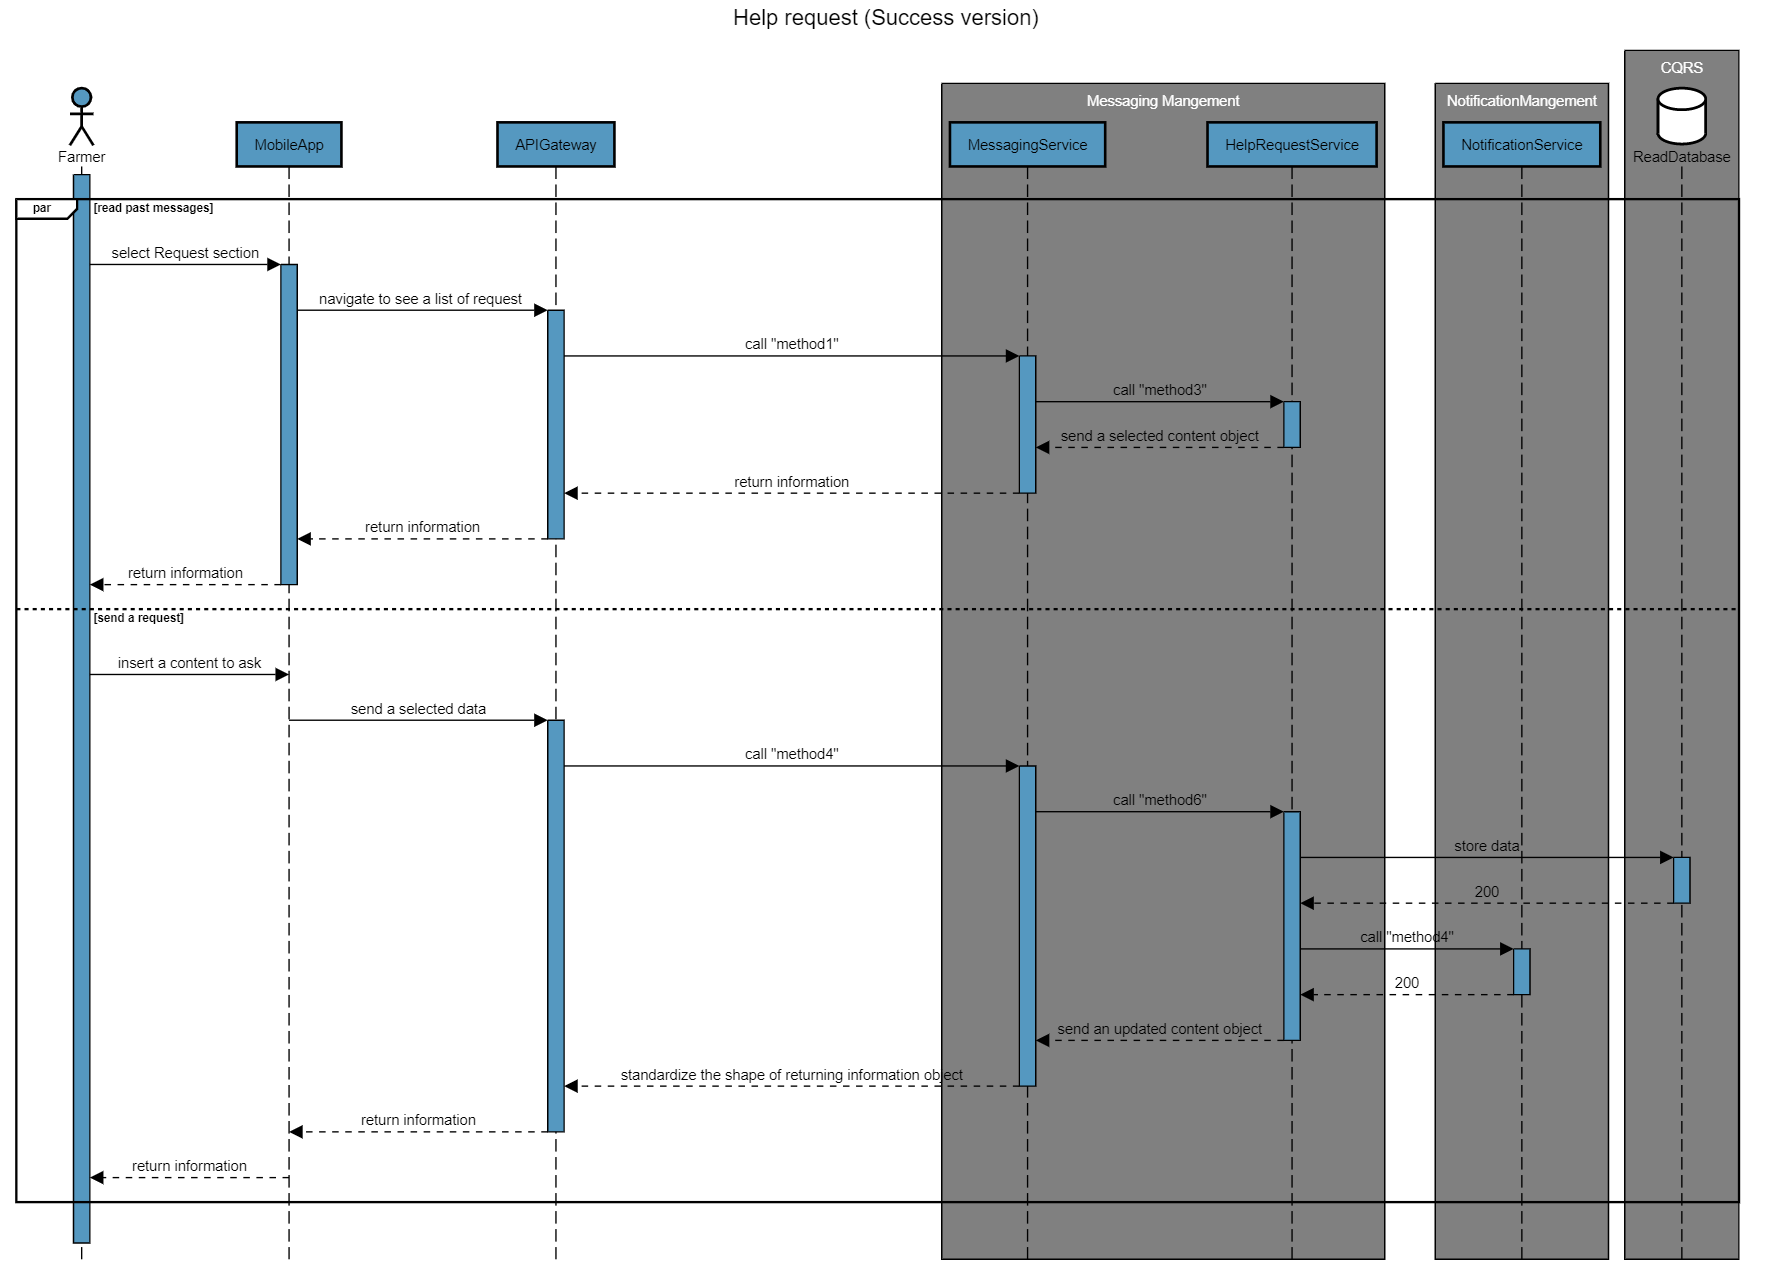
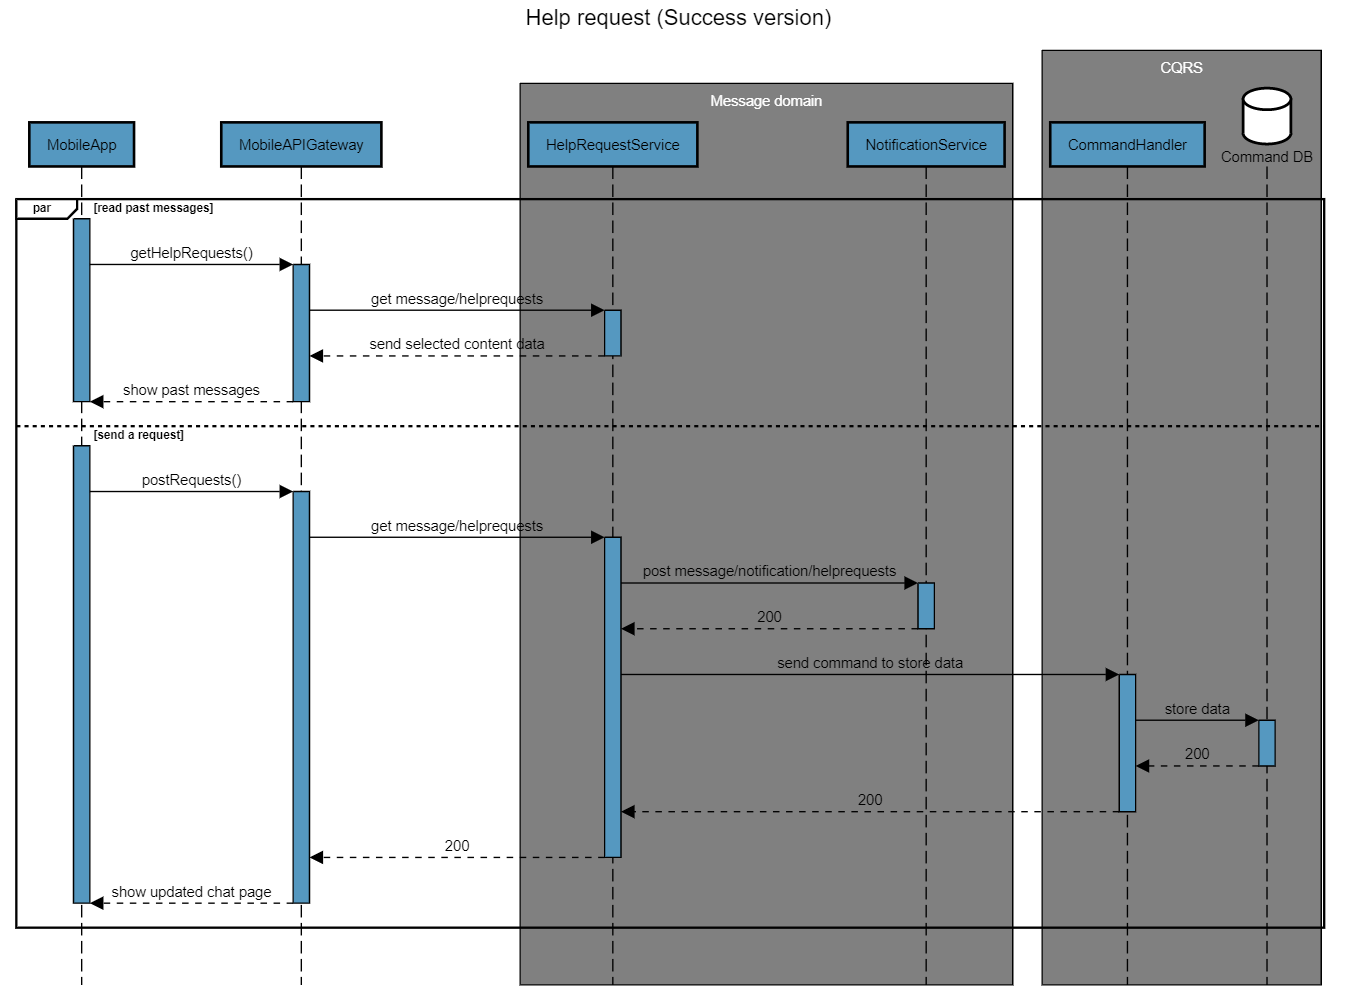
add description of sequence diagram, links, refine images

diff --git a/DD/Files/2.Architectural design/runtime_view.tex b/DD/Files/2.Architectural design/runtime_view.tex
@@ -1,42 +1,109 @@
 % ############### 2.4) RUNTIME VIEW ####################
 
-sequence diagrams, interactions description \ldots
+For letting diagram simpler, we supposed that all the example below are operations of success version (without considering any exceptions, every actor inserts the data correctly and satisfies their authorization requirements).
+\newline
+Additionally we also note that API gateway does a communication with authorization server to generate a token to let users execute only the ones they have permission to do. 
 
-Possibly not necessary "Account service"?
+
 \begin{figure}[H]
 	\centering
     \includegraphics[width=\textwidth]{Images/sequence-diagram/sign-up.png}
 	\caption{\label{fig:se_sign_up}Sign Up}
 \end{figure}
+Actor: All type of user
+\newline
+UI flow: {\ref{sec:user_mobile_interface} Sign Up, Login}
 
-Possibly not necessary "Policy maker service"?
+Firstly this diagram explains the flow of sign up for all type of user. 
+Due to CQRS pattern, there are two different database according to their purpose (\ref{sec:component_view}). 
+\newline
+\textsc{\textcolor{blue}{flow overview}}
+
+Mobile App sends a method ”postUser()” to Mobile Api Gateway, then service discovery does a job to find a routing path by URL of REST api.
+Then SignUpService receives post request, after that for updating the database, since it is write operation, it sends command to Command handler to insert the data into Command DB. 
+
+\newpage
 \begin{figure}[H]
 	\centering
     \includegraphics[width=\textwidth]{Images/sequence-diagram/incentive-management.png}
 	\caption{\label{fig:se_incentive}Incentive management}
 \end{figure}
+Actor: Policy maker
+\newline
+UI flow: {\ref{sec:pm_web_interface} Farmer's performance data}
 
+Secondly on this diagram, we would like to highlight about the reasoning of our design decision. We utilized CQRS pattern though, here it shows a comparison of each flow, one with CQRS pattern architecture, another without it.
+By the fact we consider the analysis part taken cared by 3rd party systems, it also suits to have replica of database to fetch aggregated data when it is needed regardless of condition of their system.
+\newline
+\textsc{\textcolor{blue}{flow overview}}
+\newline
+Above part describes the flow of read operation. Search and show the data from database, it is required to access Query DB.
+Then the below part explains the flow of write operation.
+Incentive service needs to call Notification service to let the farmer who is selected to receive it.
+
+\newpage
 \begin{figure}[H]
 	\centering
     \includegraphics[width=\textwidth]{Images/sequence-diagram/product-info.png}
 	\caption{\label{fig:se_product}Product information registration}
 \end{figure}
+Actor: Farmer
+\newline
+UI flow: {\ref{sec:farmer_mob_interface} Production data registration, Help/Suggestion request}
 
-Possibly not necessary "Messaging service"?
+From this diagram, we consider API gateway component contains the operation to communicate with discovery service to find the suitable service location, besides that we also expect that each service has interfaces right before receiving a request as they are shown in two examples above (sign up, incentive management).
+\newline
+\textsc{\textcolor{blue}{flow overview}}
+\newline
+Farmer inserts needed information and send the production data to register it. API gateway contacts to authorization server to assure the permission, if it is verified, then discovery service finds ProductInformationService and execute the method. Since it is write operation, it sends data to Command handler to insert into Command DB.  
+
+\newpage
 \begin{figure}[H]
 	\centering
     \includegraphics[width=\textwidth]{Images/sequence-diagram/help-request.png}
 	\caption{\label{fig:se_help}Help request registration}
 \end{figure}
+Actor: Farmer
+\newline
+UI flow: {\ref{sec:farmer_mob_interface} Production data registration, Help/Suggestion request}
 
+This diagram explains the flow of asking help request.
+As a previous step, it requires farmer to select whom they would like to ask though, we assumed this operation has been done in advance and the diagram above describes the phase afterwards.
+\newline
+\textsc{\textcolor{blue}{flow overview}}
+\newline
+First half shows the flow of read operation to visualise the past messages, on the other hand the below part represents the write operation to send the message. 
+For read operation it does not access to Query DB since the data is not aggregated data, it simply access the database inside of own service.
+
+\newpage
 \begin{figure}[H]
 	\centering
     \includegraphics[width=\textwidth]{Images/sequence-diagram/area-registration.png}
 	\caption{\label{fig:se_area}Area registration}
 \end{figure}
+Actor: Agronomist
+\newline
+UI flow: {\ref{sec:agronomist_mob_interface} Area management}
 
+This diagram shows the flow of registering new area to supervise. As like other examples, this diagram contains read and write operation individually.
+
+\textsc{\textcolor{blue}{flow overview}}
+\newline
+Firstly by calling getAreas(), it will fetch current area information about the place(name of farmers, agronomist). After agronomist observe area information and if they are interested in they could register a new area to supervise it. Write operation require to update Command DB to let new registered data be reachable by other services.
+
+\newpage
 \begin{figure}[H]
 	\centering
     \includegraphics[width=\textwidth]{Images/sequence-diagram/daily-plan.png}
-	\caption{\label{fig:se_daily}Daily plan registration}
+	\caption{\label{fig:se_daily}Remove Daily plan}
 \end{figure}
+Actor: Agronomist
+\newline
+UI flow: {\ref{sec:agronomist_mob_interface} Daily plan management}
+
+As a last example, this diagram shows the flow of updating daily plan of agronomist.
+Unlike other insertion examples, here it deletes the record from database, so it requires DELETE method.
+\newline
+\textsc{\textcolor{blue}{flow overview}}
+\newline
+On the upper part it let agronomist know the daily plan they have. Instead, the bottom explains the flow of deletion operation. Specifying id in url, Command Handler searches the record owns that id and it deletes the one matches. 

diff --git a/DD/Files/2.Architectural design/main_design.tex b/DD/Files/2.Architectural design/main_design.tex
@@ -16,6 +16,7 @@
 \label{sec:deployment_view}
 \input{Files/2.Architectural design/deployment_view}
 
+\newpage
 % 2.4
 \subsection{Runtime view}
 \label{sec:runtime_view}
